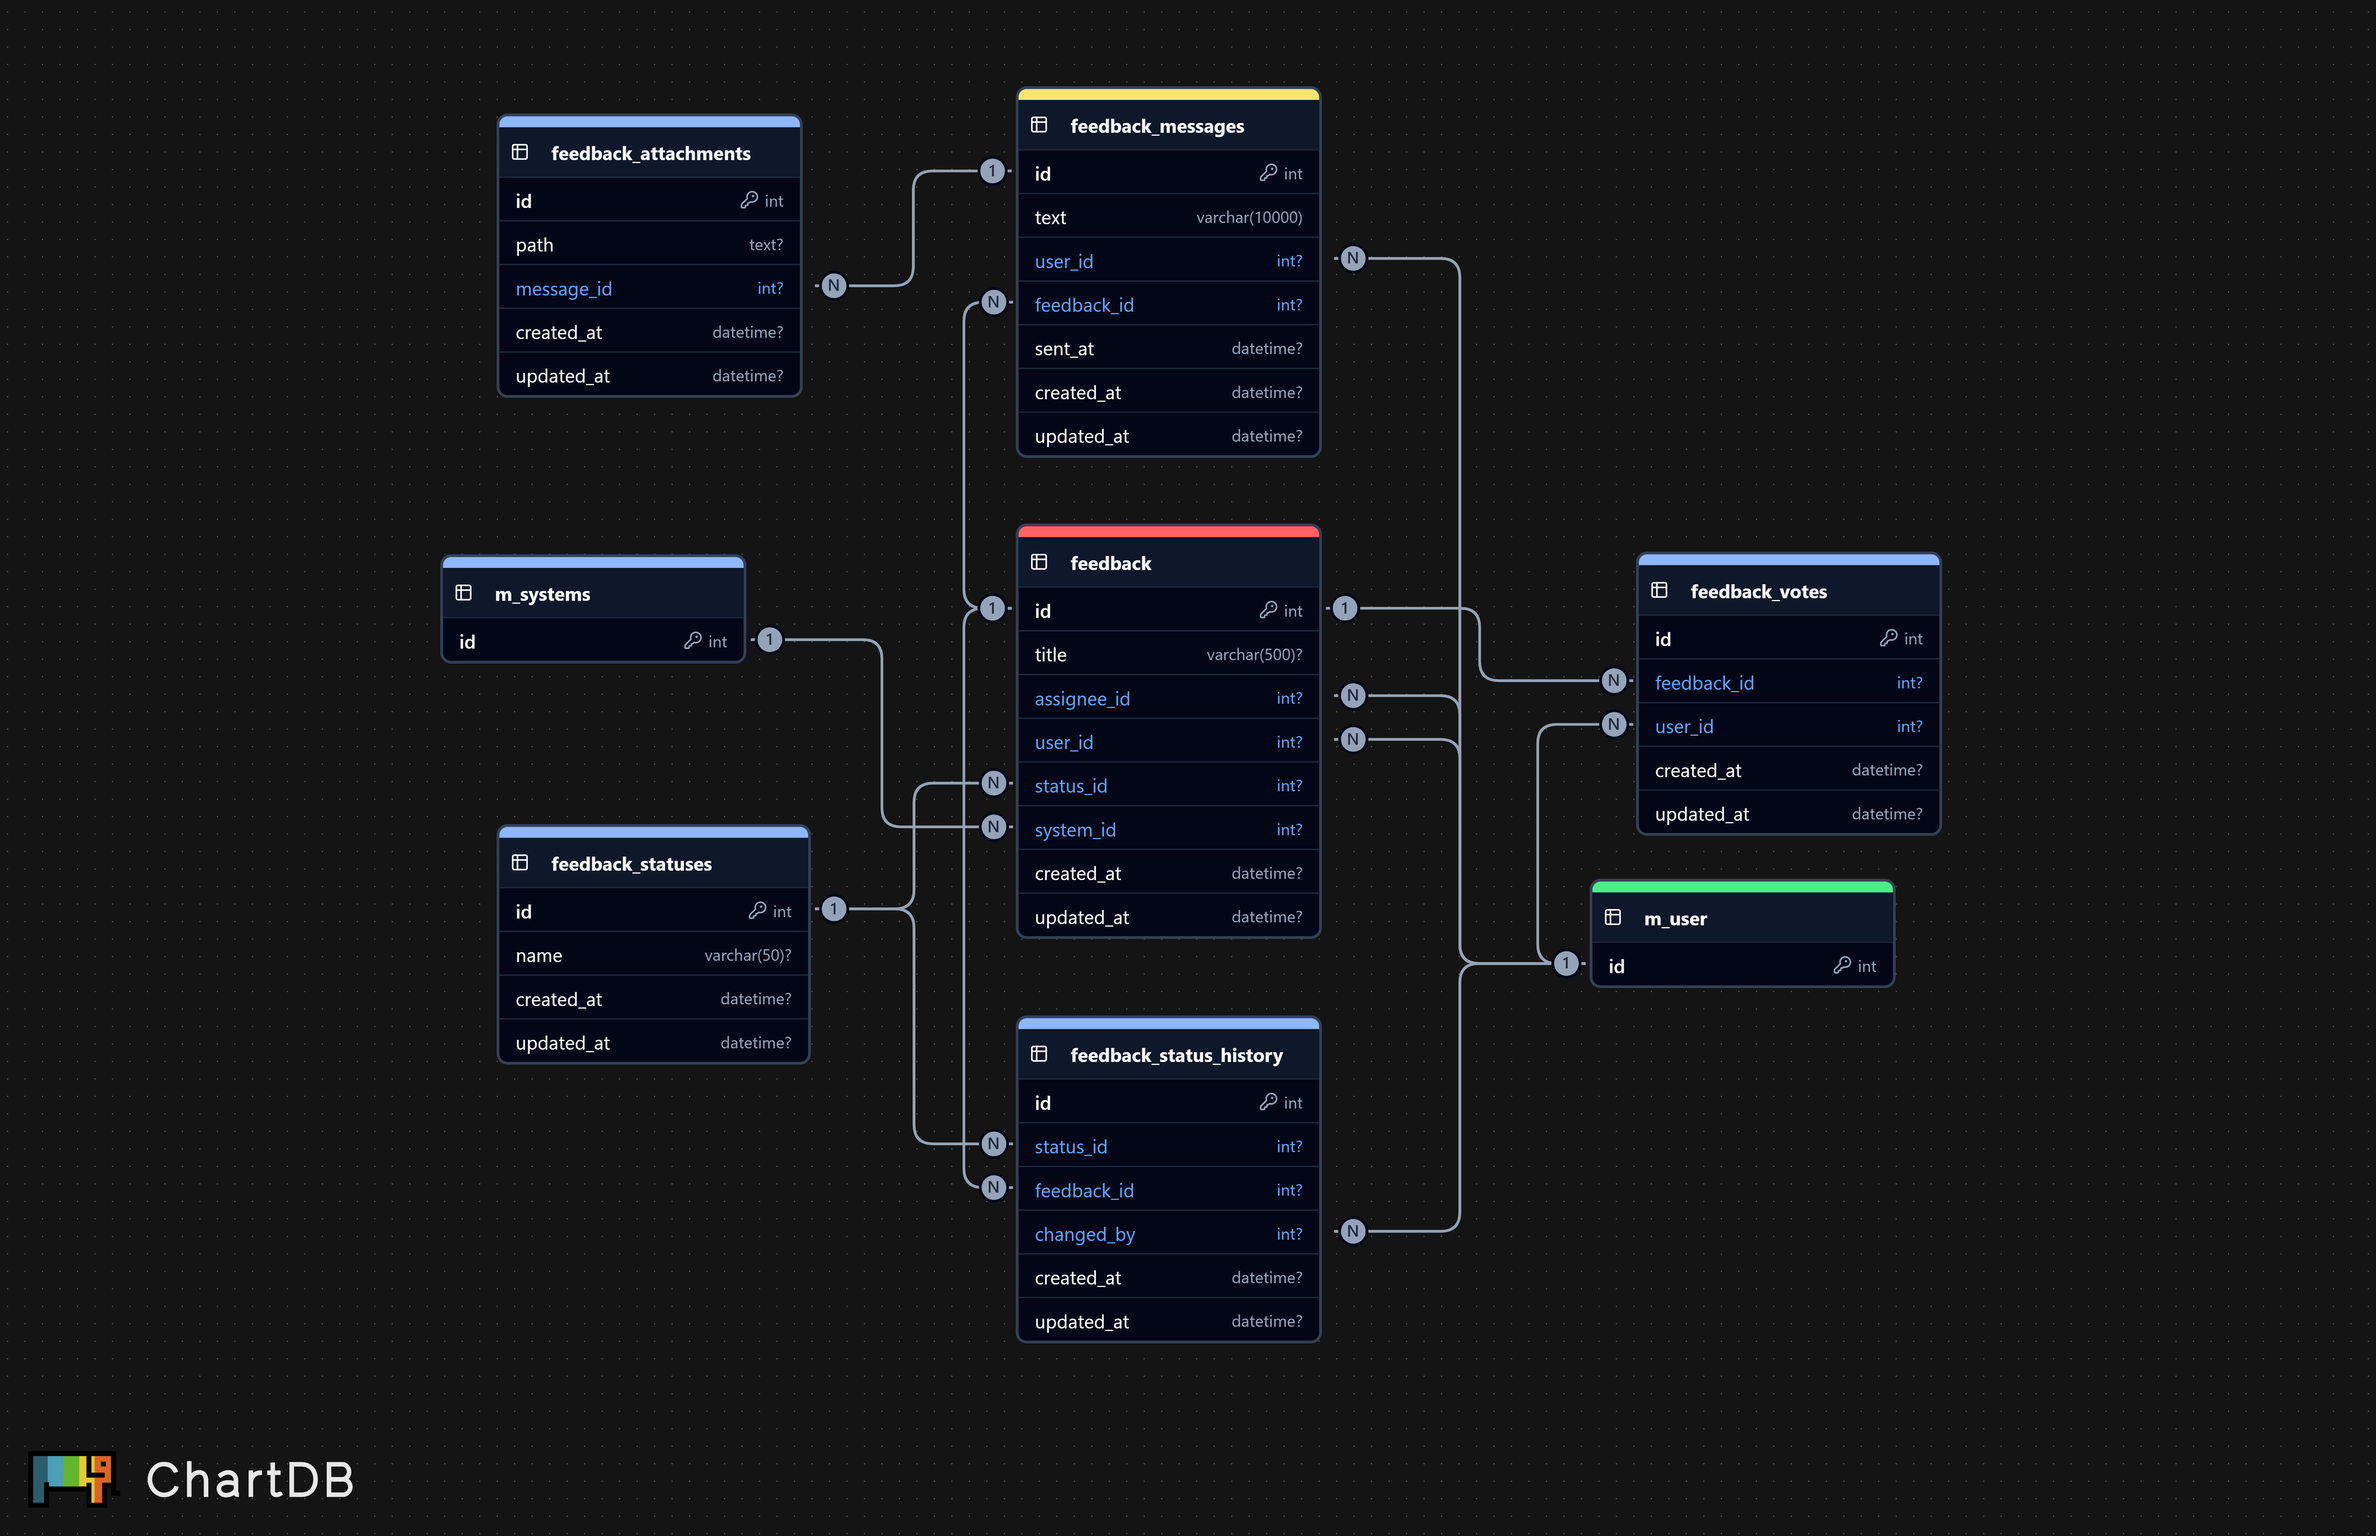
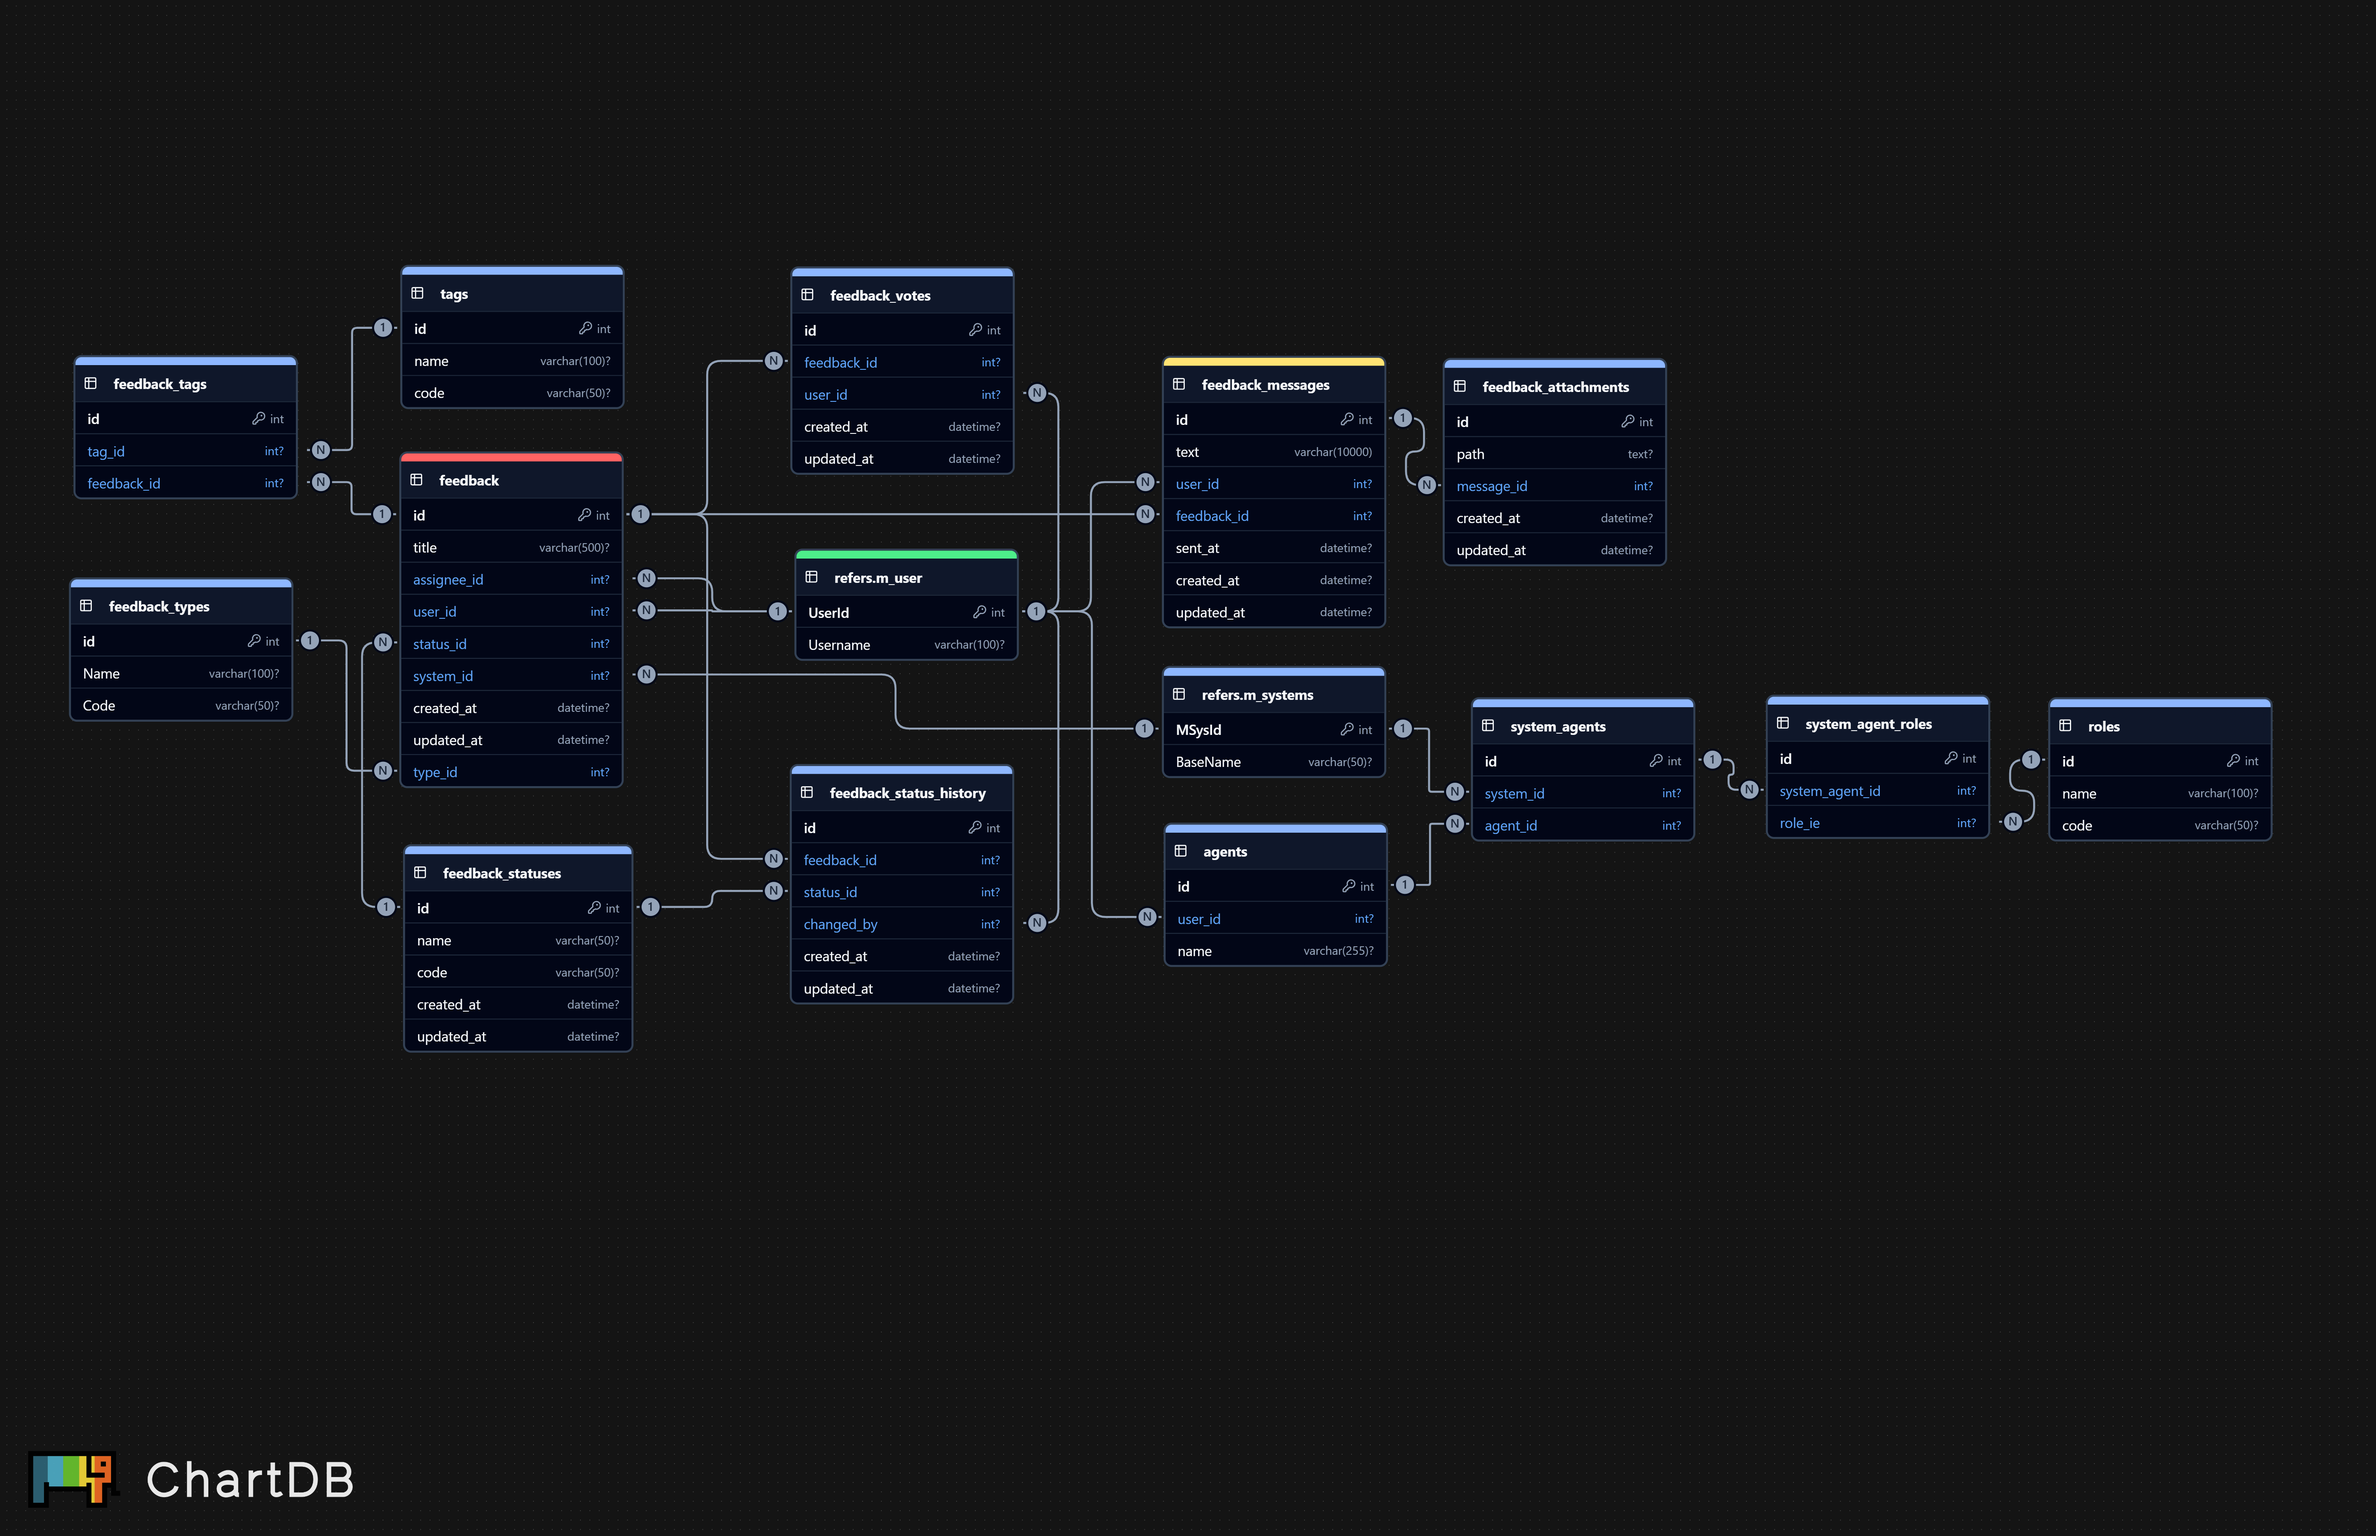
added Agent, AppAgent, AppAgnetRole, FeedbackTag, FeedbackType, Role, Tag entitye classes

diff --git a/Domain/Entities/Feedback.cs b/Domain/Entities/Feedback.cs
@@ -8,6 +8,7 @@ public class Feedback
     [MaxLength(500)] public string Title { get; set; } = null!;
     public int AssigneeId { get; set; }
     public int UserId { get; set; }
+    public int TypeId { get; set; }
     public int StatusId { get; set; }
     public int SystemId { get; set; }
     public DateTime CreatedAt { get; set; }
@@ -16,6 +17,7 @@ public class Feedback
     // Navigation Properties
     public User? Assignee { get; set; }
     public User? User { get; set; }
+    public FeedbackType? Type { get; set; }
     public FeedbackStatus? Status { get; set; }
     public AppSystem? System { get; set; }
     

diff --git a/Domain/Entities/FeedbackStatusHistory.cs b/Domain/Entities/FeedbackStatusHistory.cs
@@ -4,10 +4,13 @@ public class FeedbackStatusHistory
 {
     public int Id { get; set; }
     public int FeedbackId { get; set; }
+    public int StatusId { get; set; }
     public int ChangerId { get; set; }
     public DateTime CreatedAt { get; set; }
     public DateTime UpdatedAt { get; set; }
     
     // Navigation Properties
+    public Feedback? Feedback { get; set; }
+    public FeedbackStatus? Status { get; set; }
     public User? Changer { get; set; }
 }

diff --git a/Domain/Entities/Role.cs b/Domain/Entities/Role.cs
@@ -2,10 +2,10 @@
 
 namespace Domain.Entities;
 
-public class FeedbackStatus
+public class Role
 {
     public int Id { get; set; }
-    [MaxLength(50)] public string Name { get; set; } = null!;
+    [MaxLength(100)] public string Name { get; set; } = null!;
     [MaxLength(50)] public string Code { get; set; } = null!;
     public DateTime CreatedAt { get; set; }
     public DateTime UpdatedAt { get; set; }

diff --git a/Domain/Entities/AppAgentRole.cs b/Domain/Entities/AppAgentRole.cs
@@ -1,0 +1,14 @@
+namespace Domain.Entities;
+
+public class AppAgentRole
+{
+    public int Id { get; set; }
+    public int AppAgentId { get; set; }
+    public int RoleId { get; set; }
+    public DateTime CreatedAt { get; set; }
+    public DateTime UpdatedAt { get; set; }
+    
+    // Navigation Properties
+    public AppAgent? AppAgent { get; set; }
+    public Role? Role { get; set; }
+}

diff --git a/Domain/Entities/AppAgent.cs b/Domain/Entities/AppAgent.cs
@@ -1,0 +1,14 @@
+namespace Domain.Entities;
+
+public class AppAgent
+{
+    public int Id { get; set; }
+    public int AppId { get; set; }
+    public int AgentId { get; set; }
+    public DateTime CreatedAt { get; set; }
+    public DateTime UpdatedAt { get; set; }
+    
+    // Navigation Properties
+    public AppSystem? App { get; set; }
+    public Agent? Agent { get; set; }
+}

diff --git a/Domain/Entities/FeedbackMessage.cs b/Domain/Entities/FeedbackMessage.cs
@@ -5,7 +5,7 @@ namespace Domain.Entities;
 public class FeedbackMessage
 {
     public int Id { get; set; }
-    [MaxLength(10000)] public string? Text { get; set; }
+    [MaxLength(10000)] public string Text { get; set; } = null!;
     public int UserId { get; set; }
     public int FeedbackId { get; set; }
     public DateTime SentAt { get; set; }

diff --git a/Domain/Entities/Agent.cs b/Domain/Entities/Agent.cs
@@ -1,0 +1,12 @@
+namespace Domain.Entities;
+
+public class Agent
+{
+    public int Id { get; set; }
+    public int UserId { get; set; }
+    public DateTime CreatedAt { get; set; }
+    public DateTime UpdatedAt { get; set; }
+    
+    // Navigation Properties
+    public User? User { get; set; }
+}

diff --git a/Domain/Entities/FeedbackTag.cs b/Domain/Entities/FeedbackTag.cs
@@ -1,0 +1,12 @@
+namespace Domain.Entities;
+
+public class FeedbackTag
+{
+    public int Id { get; set; }
+    public int TagId { get; set; }
+    public int FeedbackId { get; set; }
+    
+    // Navigation Properties
+    public Tag? Tag { get; set; }
+    public Feedback? Feedback { get; set; }
+}

diff --git a/Domain/Entities/FeedbackType.cs b/Domain/Entities/FeedbackType.cs
@@ -1,0 +1,10 @@
+using System.ComponentModel.DataAnnotations;
+
+namespace Domain.Entities;
+
+public class FeedbackType
+{
+    public int Id { get; set; }
+    [MaxLength(100)] public string Name { get; set; } = null!;
+    [MaxLength(50)] public string Code { get; set; } = null!;
+}

diff --git a/Domain/Entities/Tag.cs b/Domain/Entities/Tag.cs
@@ -1,0 +1,10 @@
+using System.ComponentModel.DataAnnotations;
+
+namespace Domain.Entities;
+
+public class Tag
+{
+    public int Id { get; set; }
+    [MaxLength(100)] public string Name { get; set; } = null!;
+    [MaxLength(50)] public string Code { get; set; } = null!;
+}

diff --git a/Domain/Entities/User.cs b/Domain/Entities/User.cs
@@ -5,6 +5,8 @@ namespace Domain.Entities;
 public class User
 {
     public int Id { get; set; }
+    [MaxLength(100)]
+    public string? Name { get; set; }
     [MaxLength(100)] 
     public string Username { get; set; } = null!;
     [MaxLength(255)]
